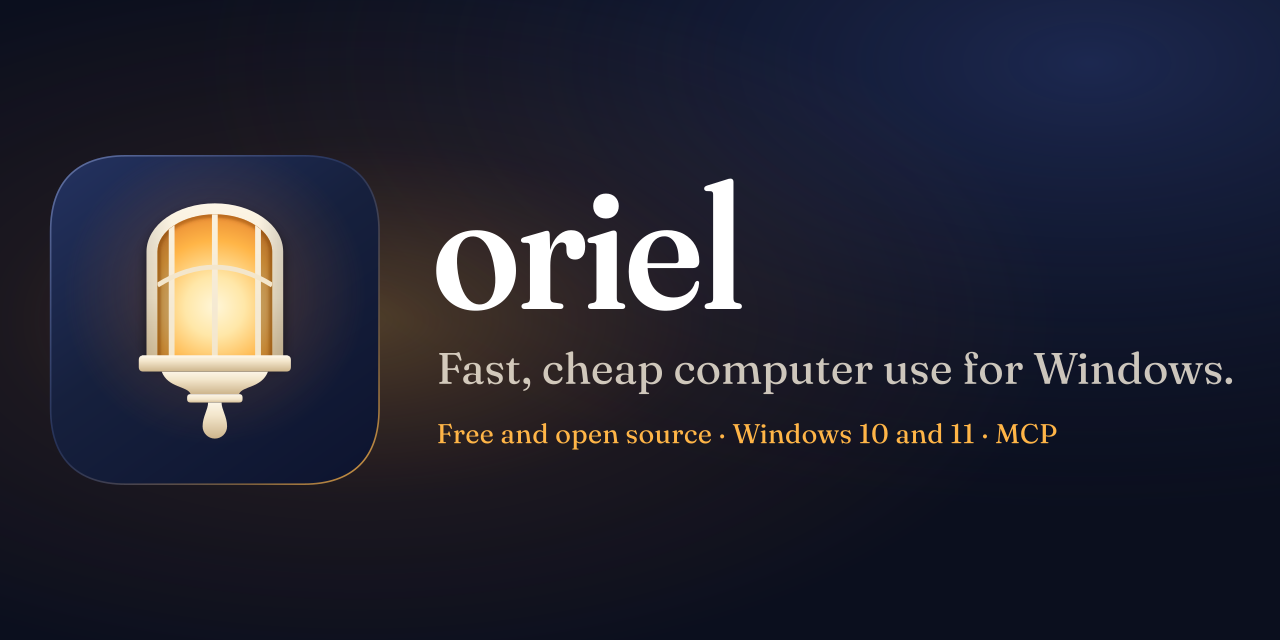
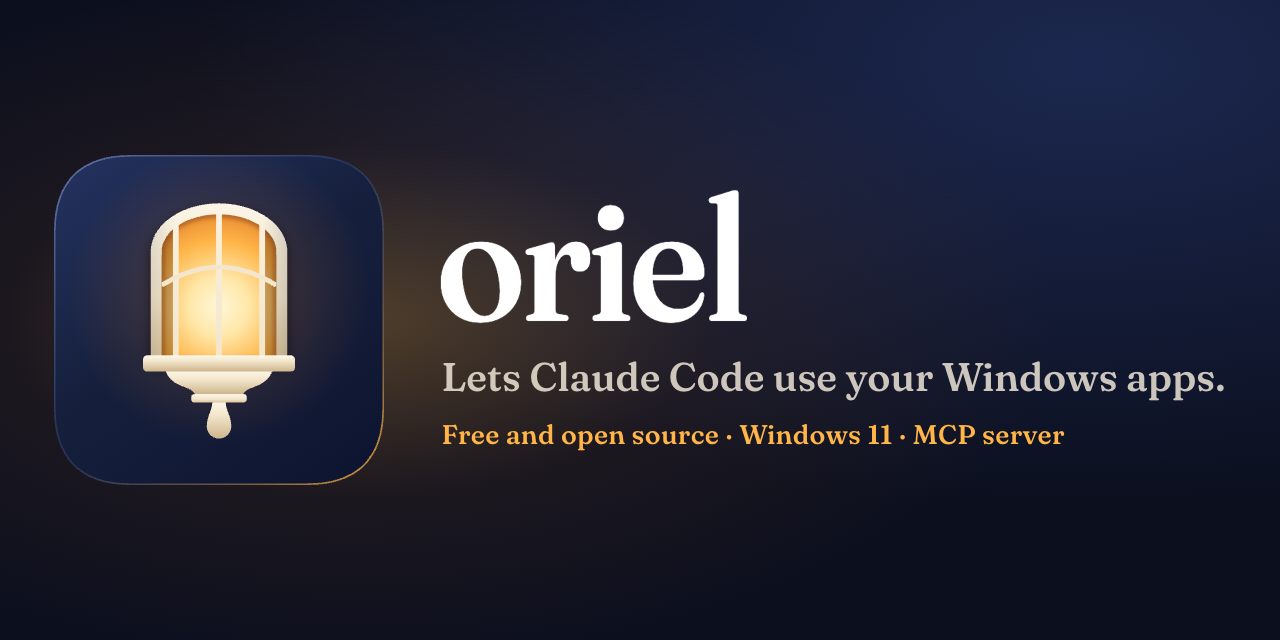
Preview card: Windows 11 and "Lets Claude Code use your Windows apps." in place of Windows 10 and 11 and the old tagline; HTML source in docs/images/source, rendered with headless Chrome at 1280x640

diff --git a/docs/images/source/social-preview.html b/docs/images/source/social-preview.html
@@ -1,0 +1,89 @@
+<!doctype html>
+<!--
+  oriel's social preview card, 1280 x 640. It is the GitHub social preview and the site's og:image.
+  The layout follows the 0.1.0 card from the brand kit; colours are site/style.css, the font is site/fonts/fraunces.woff2,
+  icon.svg is the brand kit's vector icon. Render from the repo root, then copy the PNG to both places:
+
+    "/Applications/Google Chrome.app/Contents/MacOS/Google Chrome" --headless --hide-scrollbars \
+      --force-device-scale-factor=1 --window-size=1280,640 --virtual-time-budget=5000 \
+      --user-data-dir="$(mktemp -d)" --screenshot="$PWD/docs/images/social-preview.png" \
+      "file://$PWD/docs/images/source/social-preview.html"
+    magick docs/images/social-preview.png -alpha off -strip docs/images/social-preview.png
+    cp docs/images/social-preview.png site/social-preview.png
+-->
+<html lang="en">
+<head>
+<meta charset="utf-8">
+<title>oriel social preview</title>
+<style>
+  @font-face {
+    font-family: "Fraunces";
+    src: url("../../../site/fonts/fraunces.woff2") format("woff2");
+    font-weight: 500 600;
+    font-style: normal;
+  }
+
+  :root {
+    --night: #0b0f1e;
+    --cream: #f5ecdc;
+    --amber: #ffb547;
+    --ember: #e07b2c;
+  }
+
+  html, body { margin: 0; }
+
+  body {
+    width: 1280px;
+    height: 640px;
+    overflow: hidden;
+    display: flex;
+    align-items: center;
+    justify-content: center;
+    font-family: "Fraunces", serif;
+    font-weight: 560;
+    -webkit-font-smoothing: antialiased;
+    /* A warm glow behind the icon and a cool one top right, as on the 0.1.0 card. */
+    background:
+      radial-gradient(ellipse 55% 55% at 28% 50%, rgb(255 181 71 / .28), rgb(224 123 44 / .08) 50%, rgb(224 123 44 / 0)),
+      radial-gradient(ellipse 70% 70% at 85% 10%, rgb(42 60 120 / .55), rgb(22 32 61 / 0)),
+      var(--night);
+  }
+
+  .card { display: flex; align-items: center; gap: 53px; }
+  .card img { width: 330px; height: 330px; }
+
+  .word {
+    margin: 0 0 14px;
+    color: #fff;
+    font-size: 176px;
+    line-height: .8;
+    letter-spacing: -.01em;
+  }
+
+  .tagline {
+    margin: 0 0 0 4px;
+    color: rgb(245 236 220 / .82);
+    font-size: 40px;
+    line-height: 1.7;
+  }
+
+  .facts {
+    margin: 6px 0 0 4px;
+    color: var(--amber);
+    font-size: 27px;
+    line-height: 1.3;
+    letter-spacing: .01em;
+  }
+</style>
+</head>
+<body>
+  <div class="card">
+    <img src="icon.svg" alt="">
+    <div>
+      <p class="word">oriel</p>
+      <p class="tagline">Lets Claude Code use your Windows apps.</p>
+      <p class="facts">Free and open source · Windows 11 · MCP server</p>
+    </div>
+  </div>
+</body>
+</html>
